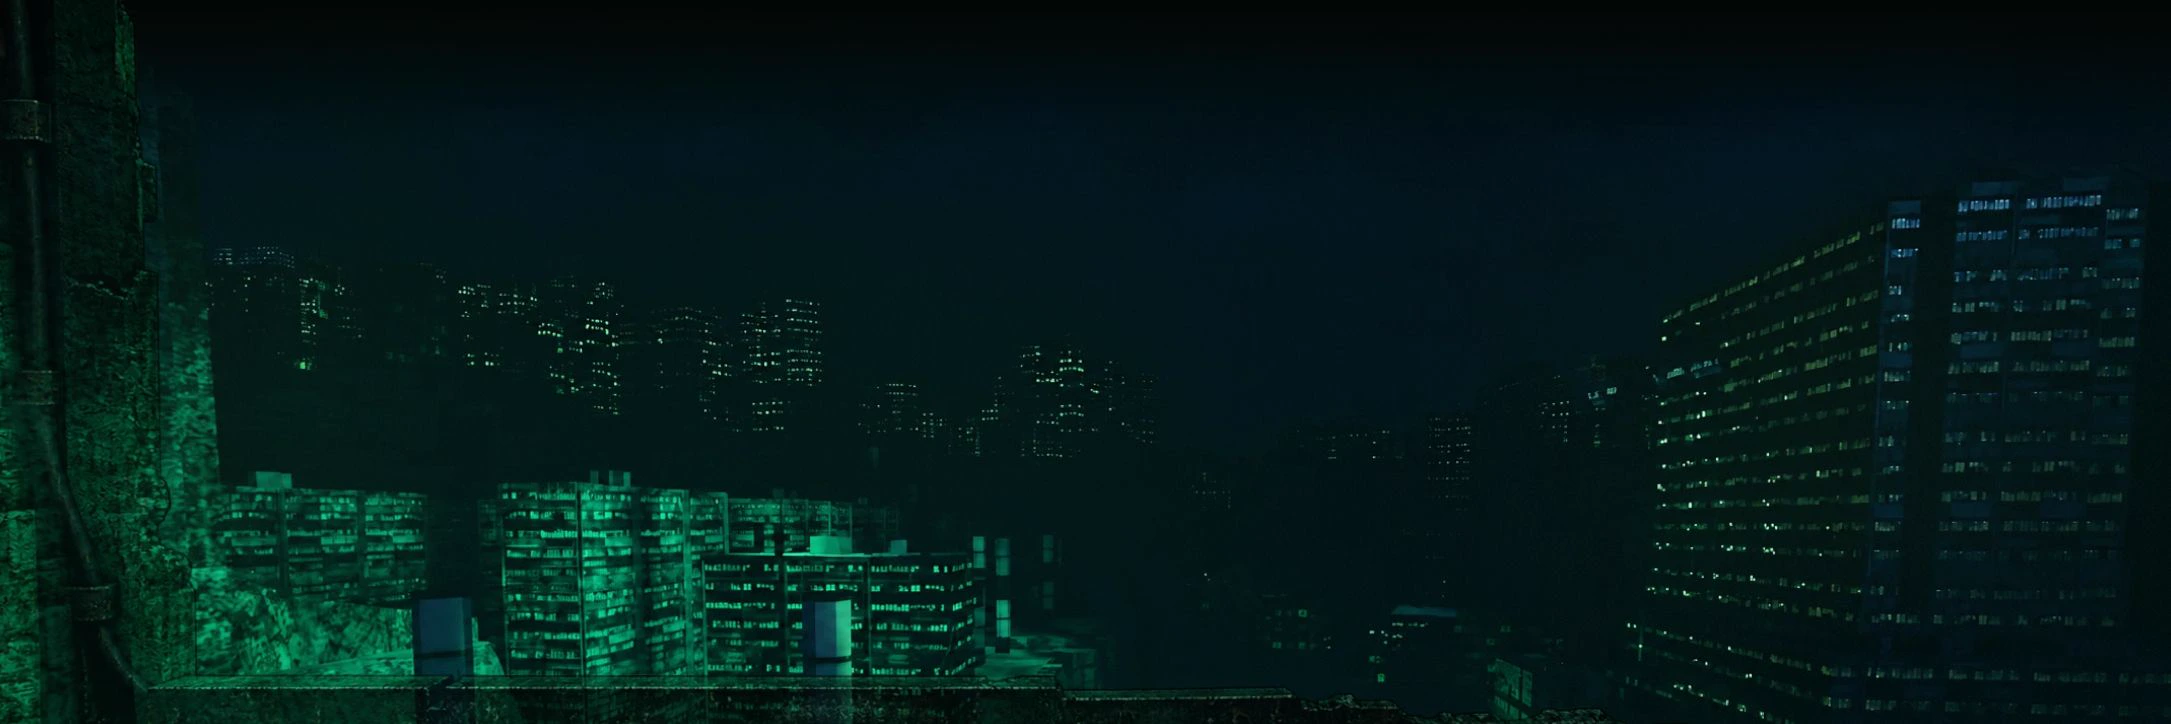
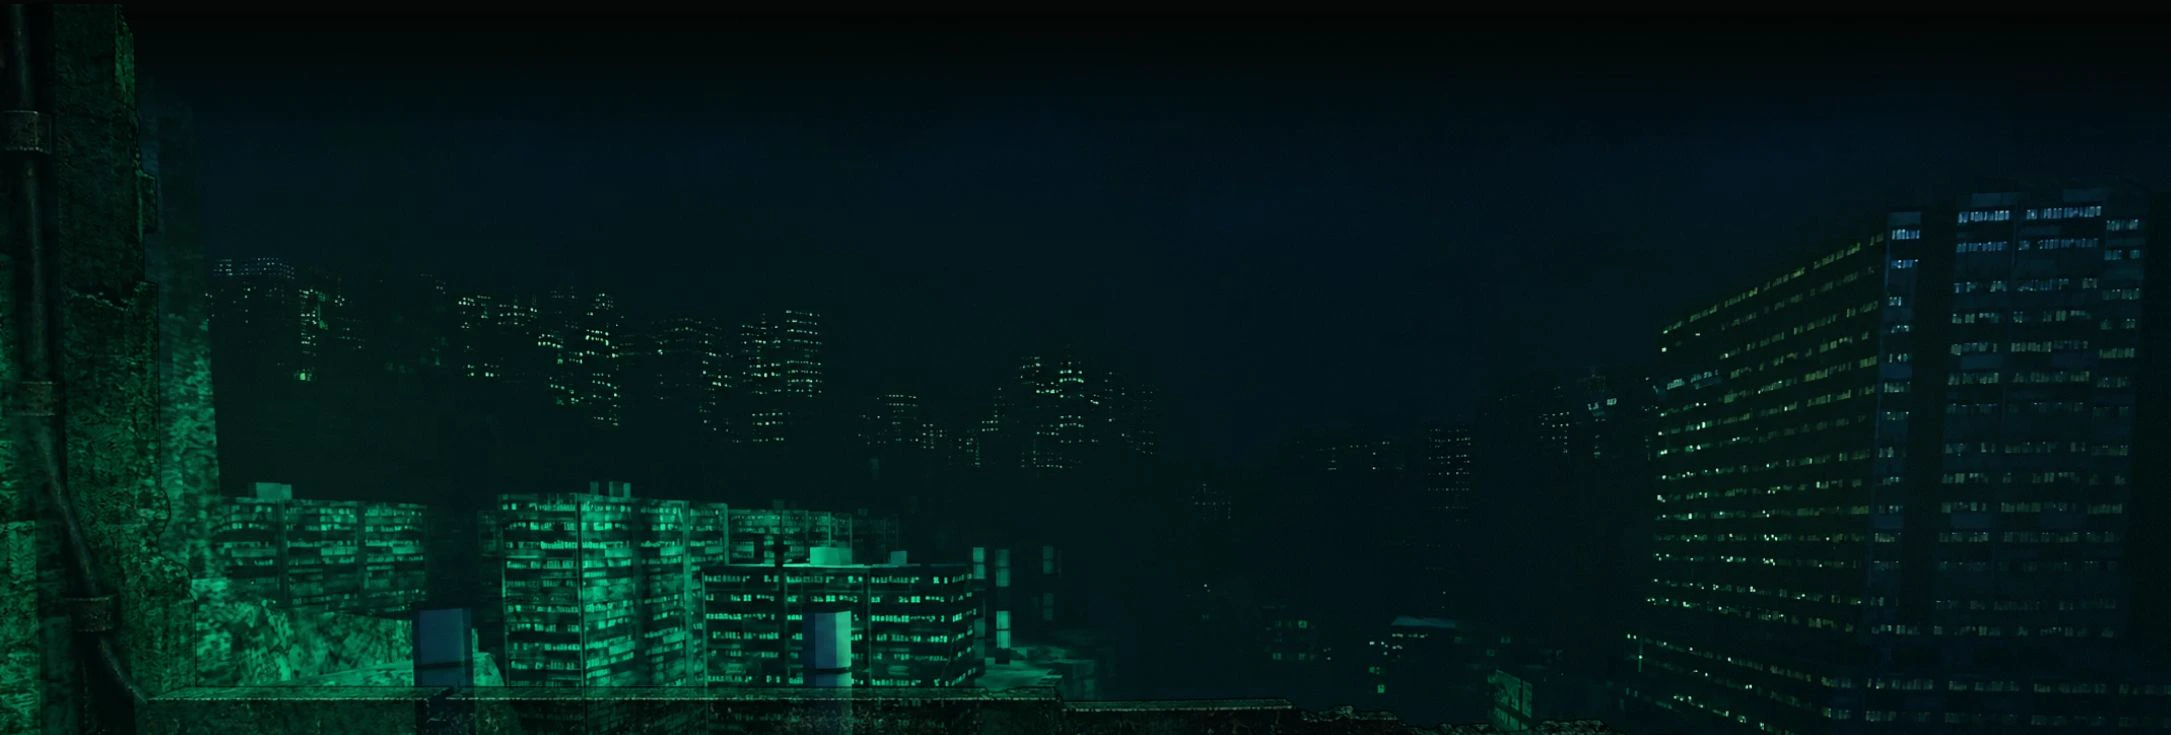
Keep navigation and city stable across page transitions

diff --git a/public/scene.js b/public/scene.js
@@ -83,8 +83,8 @@ export function initializeScene(host, motionEnabled, onStop = () => {}) {
       current[key] += (target[key] - current[key]) * amount;
       if (Math.abs(target[key] - current[key]) > 0.0005) unsettled = true;
     }
-    city.position.set(current.x * 4, -height / 2 + cityHeight / 2 + current.y * 3 + current.scroll * 18 - 6, 0);
-    foreground.position.set(current.x * 10 - 8, -height / 2 + cityHeight / 2 + current.y * 7 + current.scroll * 26 - 12, 50);
+    city.position.set(0, -height / 2 + cityHeight / 2 - 6, 0);
+    foreground.position.set(-8, -height / 2 + cityHeight / 2 - 12, 50);
     const elapsed = time - pulseStart;
     uniforms.pulse.value = elapsed >= 0 && elapsed < 680 ? (1 - Math.exp(-elapsed / 90)) * Math.exp(-elapsed / 190) * 1.8 : 0;
     uniforms.lightX.value = current.light;
@@ -160,11 +160,12 @@ export function initializeScene(host, motionEnabled, onStop = () => {}) {
     if (document.hidden) pause();
     else wake();
   }
-  function pagehide() {
+  function suspend() {
     // Keep the last frame painted while the next document takes over.
     suspended = true;
     pause();
   }
+  function pagehide() { suspend(); }
   function pageshow() { suspended = false; wake(); }
   const toolbar = document.getElementById("archive-toolbar");
   const searchObserver = toolbar ? new MutationObserver(() => {
@@ -226,5 +227,5 @@ export function initializeScene(host, motionEnabled, onStop = () => {}) {
     scroll(); resize();
   }).catch(stop);
   resize();
-  return { stop };
+  return { stop, suspend };
 }

diff --git a/public/site-motion.js b/public/site-motion.js
@@ -131,7 +131,7 @@
     if (!host) return;
     sceneStarted = true;
     const revision = ++sceneRevision;
-    const load = () => import("./scene.js?v=20261013city3").then((module) => {
+    const load = () => import("./scene.js?v=20261013city4").then((module) => {
       if (revision !== sceneRevision || !motionEnabled() || !desktopViewport.matches) return;
       sceneController = module.initializeScene(host, motionEnabled, () => {
         if (revision === sceneRevision) { sceneController = null; sceneStarted = false; }
@@ -253,6 +253,7 @@
       if (destination.origin !== window.location.origin || navigating) return;
       event.preventDefault();
       navigating = true;
+      sceneController?.suspend();
       const effect = makeSignal();
       try { sessionStorage.setItem(storageKey, destination.href); } catch { /* Navigation still works. */ }
       window.gsap.timeline({ onComplete: () => window.location.assign(destination.href) })

diff --git a/public/dump.html b/public/dump.html
@@ -10,10 +10,10 @@
     <link rel="preload" href="assets/WhiteRabbit.ttf" as="font" type="font/ttf" crossorigin>
     <link rel="preload" href="assets/city-still.webp" as="image">
     <link rel="stylesheet" href="assets/lenis.css?v=1.3.26">
-    <link rel="stylesheet" href="styles.css?v=20261013signal2">
+    <link rel="stylesheet" href="styles.css?v=20261013signal3">
     <script src="assets/lenis.min.js?v=1.3.26" defer></script>
     <script src="assets/gsap.min.js?v=3.15.0" defer></script>
-    <script src="site-motion.js?v=20261013signal2" defer></script>
+    <script src="site-motion.js?v=20261013signal3" defer></script>
     <script src="preview-data.js?v=20261013b" defer></script>
     <script src="dump.js?v=20261013city2" defer></script>
   </head>

diff --git a/public/index.html b/public/index.html
@@ -10,10 +10,10 @@
     <link rel="preload" href="assets/WhiteRabbit.ttf" as="font" type="font/ttf" crossorigin>
     <link rel="preload" href="assets/city-still.webp" as="image">
     <link rel="stylesheet" href="assets/lenis.css?v=1.3.26">
-    <link rel="stylesheet" href="styles.css?v=20261013signal2">
+    <link rel="stylesheet" href="styles.css?v=20261013signal3">
     <script src="assets/lenis.min.js?v=1.3.26" defer></script>
     <script src="assets/gsap.min.js?v=3.15.0" defer></script>
-    <script src="site-motion.js?v=20261013signal2" defer></script>
+    <script src="site-motion.js?v=20261013signal3" defer></script>
     <script src="preview-data.js?v=20261013b" defer></script>
     <script src="app.js?v=20261013city2" defer></script>
   </head>

diff --git a/public/dependencies.html b/public/dependencies.html
@@ -10,10 +10,10 @@
     <link rel="preload" href="assets/WhiteRabbit.ttf" as="font" type="font/ttf" crossorigin>
     <link rel="preload" href="assets/city-still.webp" as="image">
     <link rel="stylesheet" href="assets/lenis.css?v=1.3.26">
-    <link rel="stylesheet" href="styles.css?v=20261013signal2">
+    <link rel="stylesheet" href="styles.css?v=20261013signal3">
     <script src="assets/lenis.min.js?v=1.3.26" defer></script>
     <script src="assets/gsap.min.js?v=3.15.0" defer></script>
-    <script src="site-motion.js?v=20261013signal2" defer></script>
+    <script src="site-motion.js?v=20261013signal3" defer></script>
   </head>
   <body class="view-list view-dependencies">
     <div class="scene-background" aria-hidden="true">

diff --git a/public/about.html b/public/about.html
@@ -10,10 +10,10 @@
     <link rel="preload" href="assets/WhiteRabbit.ttf" as="font" type="font/ttf" crossorigin>
     <link rel="preload" href="assets/city-still.webp" as="image">
     <link rel="stylesheet" href="assets/lenis.css?v=1.3.26">
-    <link rel="stylesheet" href="styles.css?v=20261013signal2">
+    <link rel="stylesheet" href="styles.css?v=20261013signal3">
     <script src="assets/lenis.min.js?v=1.3.26" defer></script>
     <script src="assets/gsap.min.js?v=3.15.0" defer></script>
-    <script src="site-motion.js?v=20261013signal2" defer></script>
+    <script src="site-motion.js?v=20261013signal3" defer></script>
   </head>
   <body class="view-about">
     <div class="scene-background" aria-hidden="true">

diff --git a/public/styles.css b/public/styles.css
@@ -44,6 +44,7 @@ html {
   min-width: 320px;
   background: var(--void);
   scroll-behavior: auto;
+  scrollbar-gutter: stable;
   scrollbar-color: #35493d var(--void);
 }
 
